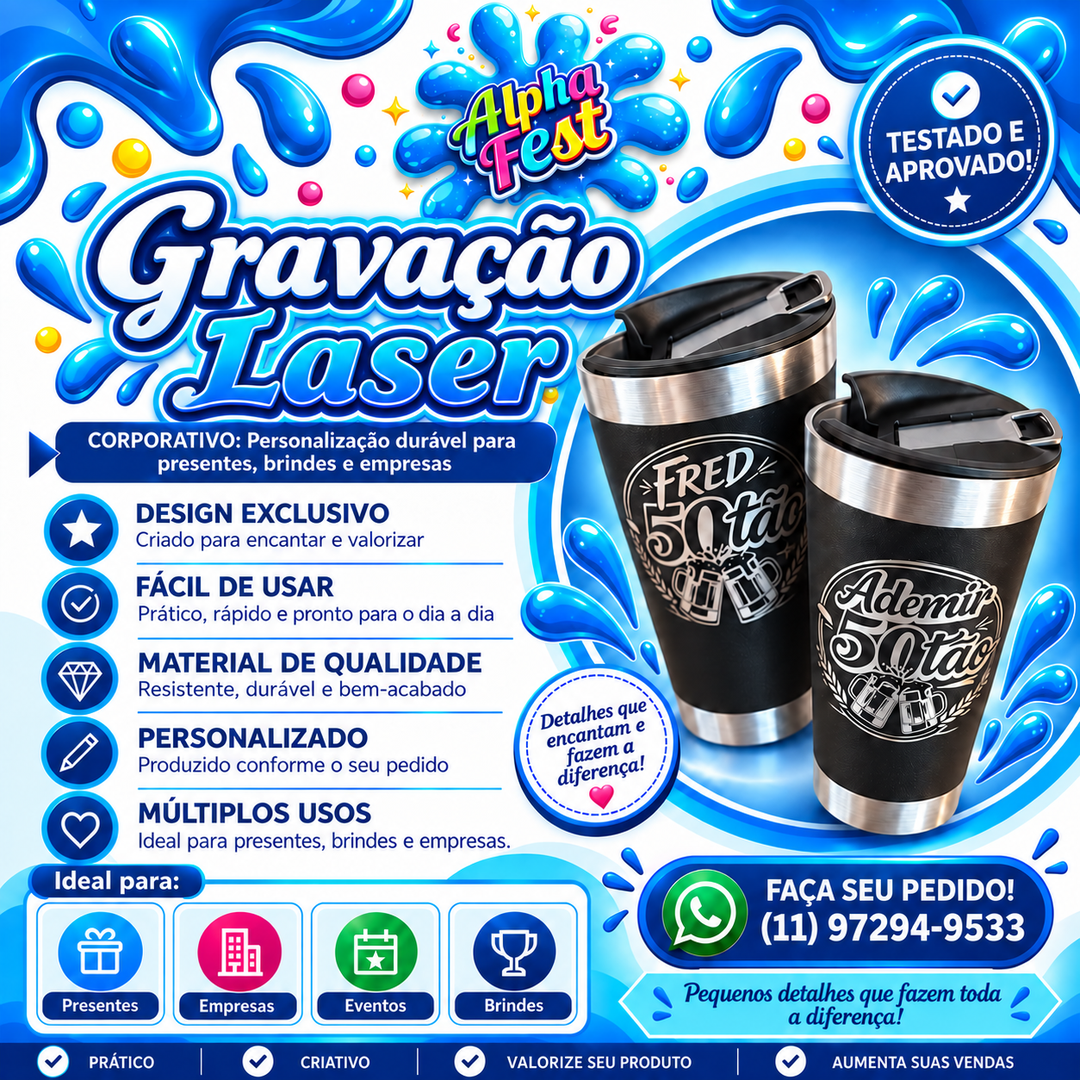
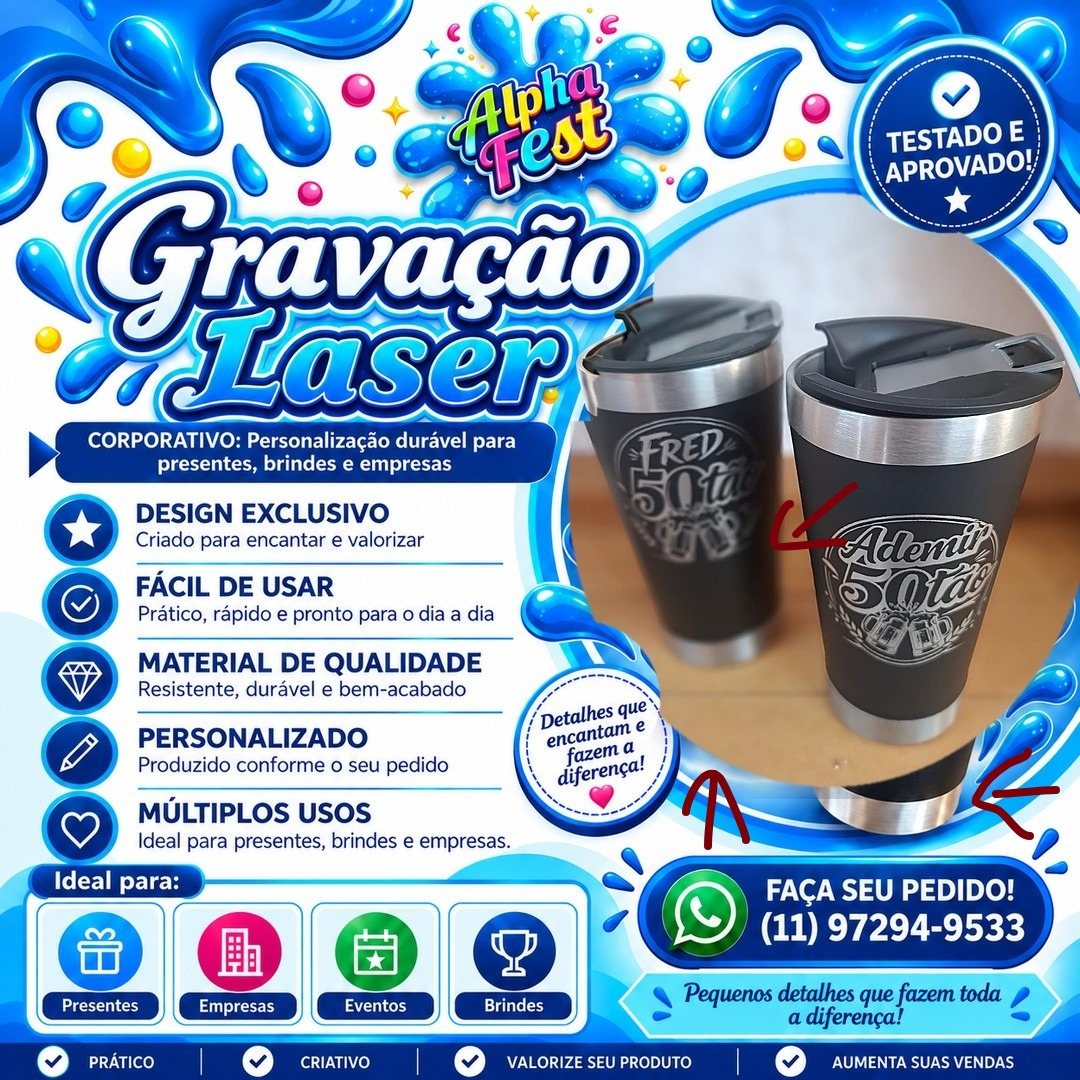
ATUAL20_4_9_I8_13_5_HF53_3_HF8_HF14

diff --git a/marketing_anna_renderer_hf11.py b/marketing_anna_renderer_hf11.py
@@ -305,34 +305,43 @@ def _product_stage_photo(image_bytes: bytes, size: tuple[int, int]) -> Image.Ima
 
 
 def _product_stage_photo_modelo_1(image_bytes: bytes, size: tuple[int, int]) -> Image.Image:
-    """Palco do Modelo Anna 1 com enquadramento mais aberto e nítido.
+    """HF14 — palco oval mais limpo, com foco no produto e melhor leitura da gravação.
 
-    A prévia anterior aproximava demais a foto e acentuava a sensação de
-    embaçado. Aqui o crop é mais conservador e a nitidez é tratada de forma
-    leve, preservando a foto original do produto.
+    Ajustes validados após conferência visual do usuário:
+    - aproximação um pouco maior para valorizar a gravação do copo principal;
+    - enquadramento mais alto, evitando conflito no rodapé direito do palco;
+    - nitidez um pouco mais forte, mas ainda sem efeito artificial;
+    - máscara oval com margem interna para o produto respirar melhor.
     """
     source = Image.open(io.BytesIO(image_bytes)).convert("RGB")
     W, H = size
     sw, sh = source.size
-    zoom = 1.02
+
+    # Enquadramento mais comercial: prioriza o copo principal e evita sobrar muito
+    # piso na base do palco. O centro vai levemente para a direita/para cima.
+    zoom = 1.12
     cw, ch = max(32, int(sw / zoom)), max(32, int(sh / zoom))
-    cx, cy = sw * .50, sh * .50
+    cx, cy = sw * .54, sh * .46
     left = max(0, min(sw-cw, int(cx-cw/2)))
     top = max(0, min(sh-ch, int(cy-ch/2)))
     crop = source.crop((left, top, left+cw, top+ch))
-    sharp = ImageOps.fit(crop, (W, H), Image.Resampling.LANCZOS, centering=(.5, .50))
+
+    sharp = ImageOps.fit(crop, (W, H), Image.Resampling.LANCZOS, centering=(.56, .44))
     try:
-        sharp = ImageEnhance.Contrast(sharp).enhance(1.03)
-        sharp = ImageEnhance.Sharpness(sharp).enhance(1.20)
-        sharp = sharp.filter(ImageFilter.UnsharpMask(radius=1.0, percent=108, threshold=2))
+        sharp = ImageEnhance.Contrast(sharp).enhance(1.08)
+        sharp = ImageEnhance.Color(sharp).enhance(1.02)
+        sharp = ImageEnhance.Sharpness(sharp).enhance(1.34)
+        sharp = sharp.filter(ImageFilter.UnsharpMask(radius=1.1, percent=135, threshold=2))
     except Exception:
         pass
     scene = sharp.convert("RGBA")
+
     outer = Image.new("L", (W, H), 0)
     od = ImageDraw.Draw(outer)
-    inset = max(2, min(W,H)//155)
-    od.ellipse((inset, inset, W-inset-1, H-inset-1), fill=255)
-    outer = outer.filter(ImageFilter.GaussianBlur(1.0))
+    inset_x = max(12, W//24)
+    inset_y = max(12, H//24)
+    od.ellipse((inset_x, inset_y, W-inset_x-1, H-inset_y-1), fill=255)
+    outer = outer.filter(ImageFilter.GaussianBlur(1.2))
     scene.putalpha(outer)
     return scene
 
@@ -358,7 +367,7 @@ def _render_modelo_anna_1_locked(
     # calculada a partir da própria referência aprovada.
     canvas = _skin_without_approval_seal(reference, (W, H)) or reference_view.copy()
 
-    stage_box = (565, 190, 1096, 790)
+    stage_box = (592, 216, 1042, 742)
     sx1, sy1, sx2, sy2 = stage_box
     scene = _product_stage_photo_modelo_1(image_bytes, (sx2-sx1, sy2-sy1))
 
@@ -377,8 +386,8 @@ def _render_modelo_anna_1_locked(
     except Exception:
         pass
 
-    sh = _soft_shadow(scene, 16, 72)
-    canvas.alpha_composite(sh, (sx1+5, sy1+9))
+    sh = _soft_shadow(scene, 14, 66)
+    canvas.alpha_composite(sh, (sx1+4, sy1+8))
     canvas.alpha_composite(scene, (sx1, sy1))
 
     # Restaura por último os pixels exatos da manchete aprovada. A máscara é
@@ -396,7 +405,7 @@ def _render_modelo_anna_1_locked(
         pass
 
     # Reaplica o selo emocional circular sobre a borda do palco, como na referência.
-    cx, cy, r = 582, 699, 78
+    cx, cy, r = 540, 744, 76
     x1, y1, x2, y2 = cx-r-4, cy-r-4, cx+r+4, cy+r+4
     center_crop = reference_view.crop((x1, y1, x2, y2)).convert("RGBA")
     cmask = Image.new("L", center_crop.size, 0)

diff --git a/app.py b/app.py
@@ -26513,7 +26513,7 @@ if pagina_atual == "crescimento":
     # HF53.3 — Biblioteca de Templates: mestre HF7 congelado + seleção segura no Piloto Automático.
     with st.container(border=True):
         af_section_title("⚡ Piloto Automático de Conteúdo", "Designer Comercial AlphaFest: produto, copy, layout por canal e revisão automática antes de salvar.")
-        st.caption("HF53.3-HF8-HF13: Template Anna — Redes Sociais • Renderer dedicado HF11 travado em runtime • Mestre HF7 intacto.")
+        st.caption("HF53.3-HF8-HF14: Template Anna — Redes Sociais • ajuste fino visual do Anna com base HF11 • Mestre HF7 intacto.")
         try:
             _mkt_metrics = _site_metrics_summary() if _site_metrics_tracking_available() else {}
         except Exception:
@@ -28414,7 +28414,7 @@ if pagina_atual == "crescimento":
                     except Exception as exc:
                         st.error(f"Não foi possível instalar o template: {exc}")
 
-            st.info("HF53.3-HF8-HF13: o Mestre HF7 permanece oficial e congelado. O Template Anna usa módulo dedicado HF11 e grava a versão efetivamente carregada no runtime.")
+            st.info("HF53.3-HF8-HF14: o Mestre HF7 permanece oficial e congelado. O Template Anna recebe ajuste fino visual mantendo a identificação do renderer aprovado HF11 no runtime.")
             st.markdown("---")
             st.subheader("🖼 Banco de mídia AlphaFest")
             st.caption("Fotos e vídeos continuam ligados às campanhas e ao catálogo existente.")

diff --git a/marketing_template_engine.py b/marketing_template_engine.py
@@ -69,7 +69,7 @@ EMBEDDED_TEMPLATES: dict[str, dict[str, Any]] = {
     "anna_social_redes": {
         "id": "anna_social_redes",
         "nome": "Template Anna — Redes Sociais",
-        "descricao": "Template Anna — Modelo 1 HF8-HF13: renderer dedicado HF11 travado em runtime e alinhado ao Modelo Anna 1 aprovado. Gravação Laser preserva a manchete visual homologada, sem caixa branca; fotografia original entra nítida no palco oval; um único selo oficial fica na última camada; Ideal para mantém cards com fundo e ícones temáticos; Mestre HF7 permanece congelado.",
+        "descricao": "Template Anna — Modelo 1 HF8-HF14: pacote de ajuste fino visual mantendo o renderer aprovado HF11. Gravação Laser preserva a manchete visual homologada e o tipo de letra aprovado; palco oval reposicionado com enquadramento mais limpo, produto mais nítido e sem conflito no rodapé direito; selo circular emocional reposicionado; Ideal para mantém cards com fundo e ícones temáticos; Mestre HF7 permanece congelado.",
         "categoria_template": "Redes Sociais",
         "status_template": "Homologado",
         "versao_template": ANNA_RENDERER_VERSION,

diff --git a/tests/test_hf53_3_hf8_hf14_anna_ajuste_fino_visual.py b/tests/test_hf53_3_hf8_hf14_anna_ajuste_fino_visual.py
@@ -1,0 +1,12 @@
+from pathlib import Path
+
+
+def test_hf14_versions_and_visual_contract():
+    assert Path('VERSAO.txt').read_text(encoding='utf-8').strip() == '20.4.9-I8.13.5-HF53.3-HF8-HF14'
+    app = Path('app.py').read_text(encoding='utf-8')
+    assert 'HF53.3-HF8-HF14: Template Anna — Redes Sociais • ajuste fino visual do Anna com base HF11 • Mestre HF7 intacto.' in app
+    renderer = Path('marketing_anna_renderer_hf11.py').read_text(encoding='utf-8')
+    assert 'ANNA_RENDERER_VERSION = "HF53.3-HF8-HF11"' in renderer
+    assert 'stage_box = (592, 216, 1042, 742)' in renderer
+    assert 'cx, cy, r = 540, 744, 76' in renderer
+    assert 'zoom = 1.12' in renderer

diff --git a/UPDATE_INFO_20_4_9_I8_13_5_HF53_3_HF8_HF14.md b/UPDATE_INFO_20_4_9_I8_13_5_HF53_3_HF8_HF14.md
@@ -1,0 +1,12 @@
+# AlphaFest Manager — HF53.3-HF8-HF14
+
+## Objetivo
+Ajuste fino visual do Template Anna — Redes Sociais, sem alterar o Template Mestre Comercial HF7.
+
+## Entregas
+- preservada a origem em runtime do Template Anna;
+- mantido o título "Gravação Laser" com o lettering aprovado;
+- palco oval reposicionado e reduzido para evitar conflito visual na base direita;
+- foto tratada com nitidez e enquadramento focado no produto;
+- selo circular emocional reposicionado para respirar melhor ao lado do palco;
+- HF7 congelado e intacto.
